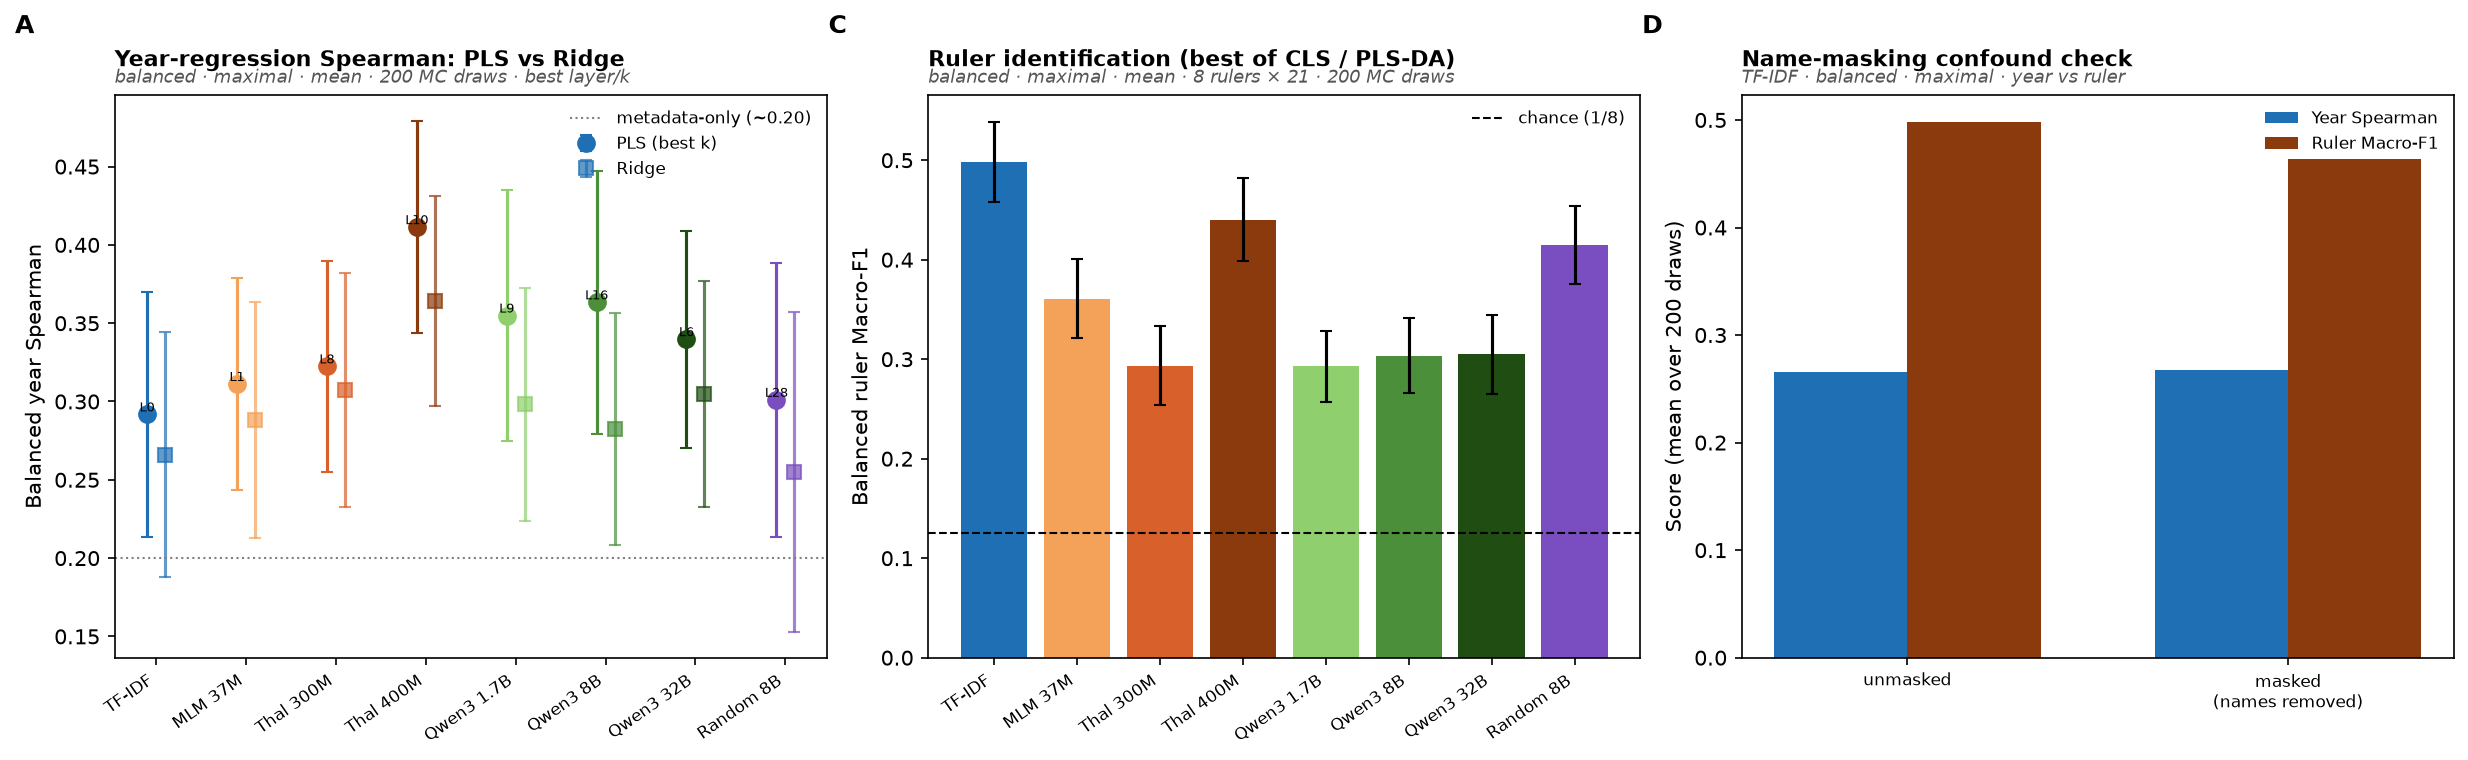
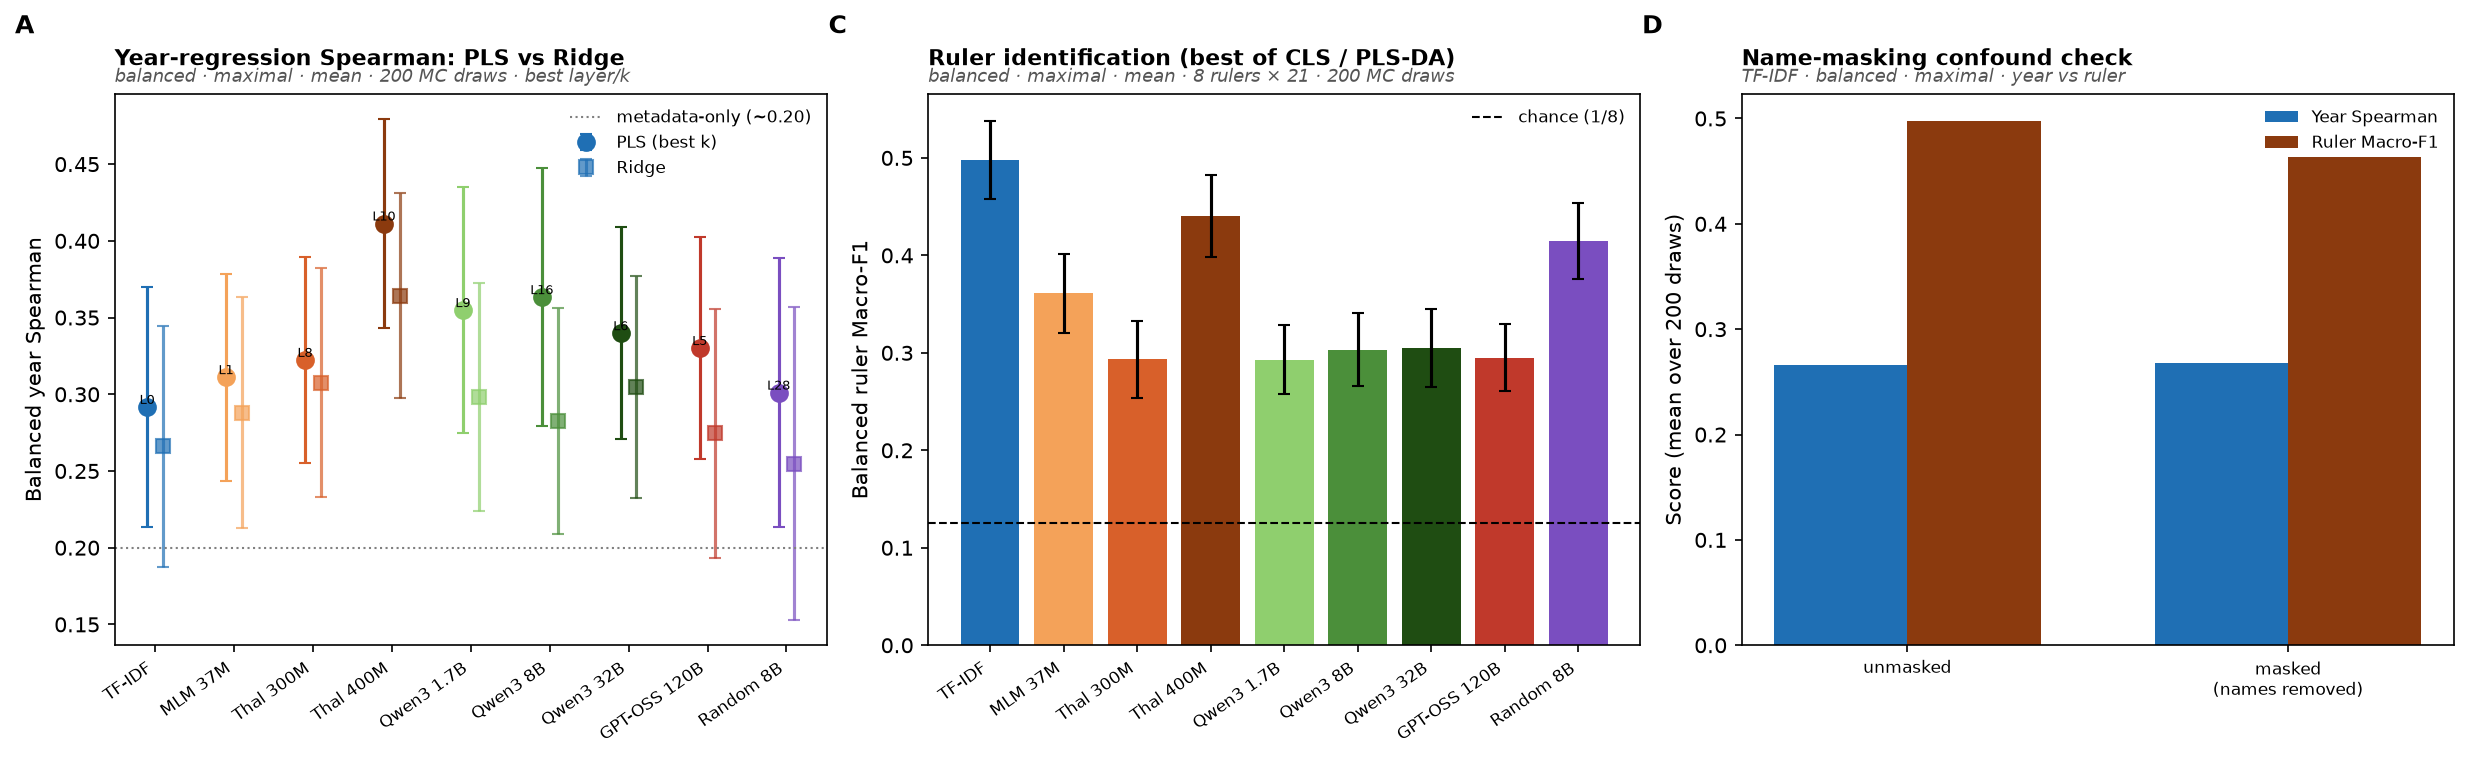
figures: add gpt_oss_120b (120B) to maximal figs 1/2/4
- Register gpt_oss_120b in plot_round3_story_figures.py (PARAMS_B=120, crimson color, gpt_oss family)
- Add to LAYERED in make_maximal_figs.py so it appears in layerwise fig4
- inject_gpt_oss_120b() in regen_figs_from_csv.py loads from finetune/results/probes (37 PLS layers, best Spearman 0.330 at L5; ruler F1 0.295)
- Regenerate fig1_ACD, fig2_AB, fig4_A, ksweep plots with gpt_oss_120b included

https://claude.ai/code/session_01WrwGL6rVC1EdHpq7HKQFoG

diff --git a/v_1/src/geodesic/maximal_figs/regen_figs_from_csv.py b/v_1/src/geodesic/maximal_figs/regen_figs_from_csv.py
@@ -17,6 +17,8 @@ Writes into figures/:
 from __future__ import annotations
 
 import csv
+import json
+import re
 import sys
 from pathlib import Path
 
@@ -55,6 +57,60 @@ def load_data(tables: Path) -> dict:
         data["ruler"][r["model"]] = (_float(r["macro_f1"]), _float(r["macro_f1_std"]),
                                      r.get("source", ""))
     return data
+
+
+_LKEY = re.compile(r"__L(\d+)__")
+FINETUNE_PROBES = HERE.parent.parent / "finetune" / "results" / "probes"
+
+
+def _load_probe_layers(probe_json: Path, value_key: str, suffix: str) -> dict:
+    """Read {layer -> (mean, std)} from a probe summary JSON for maximal/mean configs."""
+    if not probe_json.exists():
+        return {}
+    pc = json.load(open(probe_json)).get("per_config", {})
+    out: dict = {}
+    for k, rec in pc.items():
+        if "__maximal__" not in k or "__last__" in k or not k.endswith(suffix):
+            continue
+        if "__mean__" not in k:
+            continue
+        m = _LKEY.search(k)
+        L = int(m.group(1)) if m else 0
+        out[L] = (rec.get(f"{value_key}_mean"), rec.get(f"{value_key}_std"))
+    return out
+
+
+def inject_gpt_oss_120b(data: dict) -> None:
+    """Load gpt_oss_120b probe data from the finetune results and inject into data."""
+    pls = _load_probe_layers(
+        FINETUNE_PROBES / "gpt_oss_120b_pls__mc_balanced_maximal__summary.json",
+        "spearman", "year-raw",
+    )
+    ridge = _load_probe_layers(
+        FINETUNE_PROBES / "gpt_oss_120b_cls_numeric__mc_balanced_maximal__summary.json",
+        "spearman", "year-raw",
+    )
+    # ruler: best macro_f1 over cls and pls probes
+    best_ruler: tuple = (None, None, None)
+    for probe, src in [("cls", "cls"), ("pls", "plsda")]:
+        p = FINETUNE_PROBES / f"gpt_oss_120b_{probe}__mc_balanced_maximal__summary.json"
+        if not p.exists():
+            continue
+        for k, rec in json.load(open(p)).get("per_config", {}).items():
+            if "__maximal__" not in k or "__last__" in k or not k.endswith("ruler"):
+                continue
+            f1 = rec.get("macro_f1_mean")
+            if f1 is not None and (best_ruler[0] is None or f1 > best_ruler[0]):
+                best_ruler = (f1, rec.get("macro_f1_std"), src)
+    if pls:
+        data["pls"]["gpt_oss_120b"] = pls
+        print(f"[gpt_oss_120b] {len(pls)} PLS layers loaded")
+    if ridge:
+        data["ridge"]["gpt_oss_120b"] = ridge
+        print(f"[gpt_oss_120b] {len(ridge)} Ridge layers loaded")
+    if best_ruler[0] is not None:
+        data["ruler"]["gpt_oss_120b"] = best_ruler
+        print(f"[gpt_oss_120b] ruler macro_f1={best_ruler[0]:.3f}")
 
 
 def regen_ksweep(tables: Path, fig_out: Path) -> None:
@@ -132,6 +188,7 @@ def main() -> None:
     fig_out.mkdir(parents=True, exist_ok=True)
 
     data = load_data(tables)
+    inject_gpt_oss_120b(data)
     mmf.fig1_ACD(data, fig_out)
     mmf.fig2_AB(data, fig_out)
     mmf.fig4_A(data, fig_out)

diff --git a/v_1/src/geodesic/plot_round3_story_figures.py b/v_1/src/geodesic/plot_round3_story_figures.py
@@ -48,6 +48,7 @@ MODEL_ORDER = [
     "qwen3_1b7",
     "qwen3_8b",
     "qwen3_32b",
+    "gpt_oss_120b",
     "random",
 ]
 
@@ -60,6 +61,7 @@ MODEL_LABEL = {
     "qwen3_1b7": "Qwen3 1.7B",
     "qwen3_8b": "Qwen3 8B",
     "qwen3_32b": "Qwen3 32B",
+    "gpt_oss_120b": "GPT-OSS 120B",
     "random": "Random-init 8B",
 }
 
@@ -72,6 +74,7 @@ MODEL_SHORT = {  # for tight axis tick labels
     "qwen3_1b7": "Qwen3 1.7B",
     "qwen3_8b": "Qwen3 8B",
     "qwen3_32b": "Qwen3 32B",
+    "gpt_oss_120b": "GPT-OSS 120B",
     "random": "Random 8B",
 }
 
@@ -84,6 +87,7 @@ PARAMS_B = {
     "qwen3_1b7": 1.7,
     "qwen3_8b": 8.0,
     "qwen3_32b": 32.0,
+    "gpt_oss_120b": 120.0,
     "random": 8.0,
 }
 
@@ -96,6 +100,7 @@ FAMILY = {
     "qwen3_1b7": "qwen",
     "qwen3_8b": "qwen",
     "qwen3_32b": "qwen",
+    "gpt_oss_120b": "gpt_oss",
     "random": "random",
 }
 
@@ -111,6 +116,7 @@ MODEL_COLOR = {
     "qwen3_1b7":           "#8fcf6e",   # light green
     "qwen3_8b":            "#4b8f3a",   # mid green
     "qwen3_32b":           "#1f4d12",   # dark green
+    "gpt_oss_120b":        "#c0392b",   # crimson red
     "random":              "#7a4ec0",
 }
 
@@ -123,6 +129,7 @@ MODEL_MARKER = {
     "qwen3_1b7":           "o",
     "qwen3_8b":            "o",
     "qwen3_32b":           "o",
+    "gpt_oss_120b":        "^",
     "random":              "X",
 }
 
@@ -130,6 +137,7 @@ MODEL_MARKER = {
 FAMILY_LINESTYLE = {
     "akkadian": "-",
     "qwen":     "--",
+    "gpt_oss":  (0, (5, 2)),
     "random":   ":",
     "surface":  "-.",
     "metadata": (0, (1, 1)),

diff --git a/v_1/src/geodesic/maximal_figs/make_maximal_figs.py b/v_1/src/geodesic/maximal_figs/make_maximal_figs.py
@@ -38,7 +38,7 @@ _LKEY = re.compile(r"__L(\d+)__")
 
 # models that have layers (for the layerwise fig4); tfidf has none.
 LAYERED = ["mlm", "thalesian_akk300m", "thalesian_cunei400m",
-           "qwen3_1b7", "qwen3_8b", "qwen3_32b", "random"]
+           "qwen3_1b7", "qwen3_8b", "qwen3_32b", "gpt_oss_120b", "random"]
 ALL_MODELS = ["tfidf"] + LAYERED
 
 
